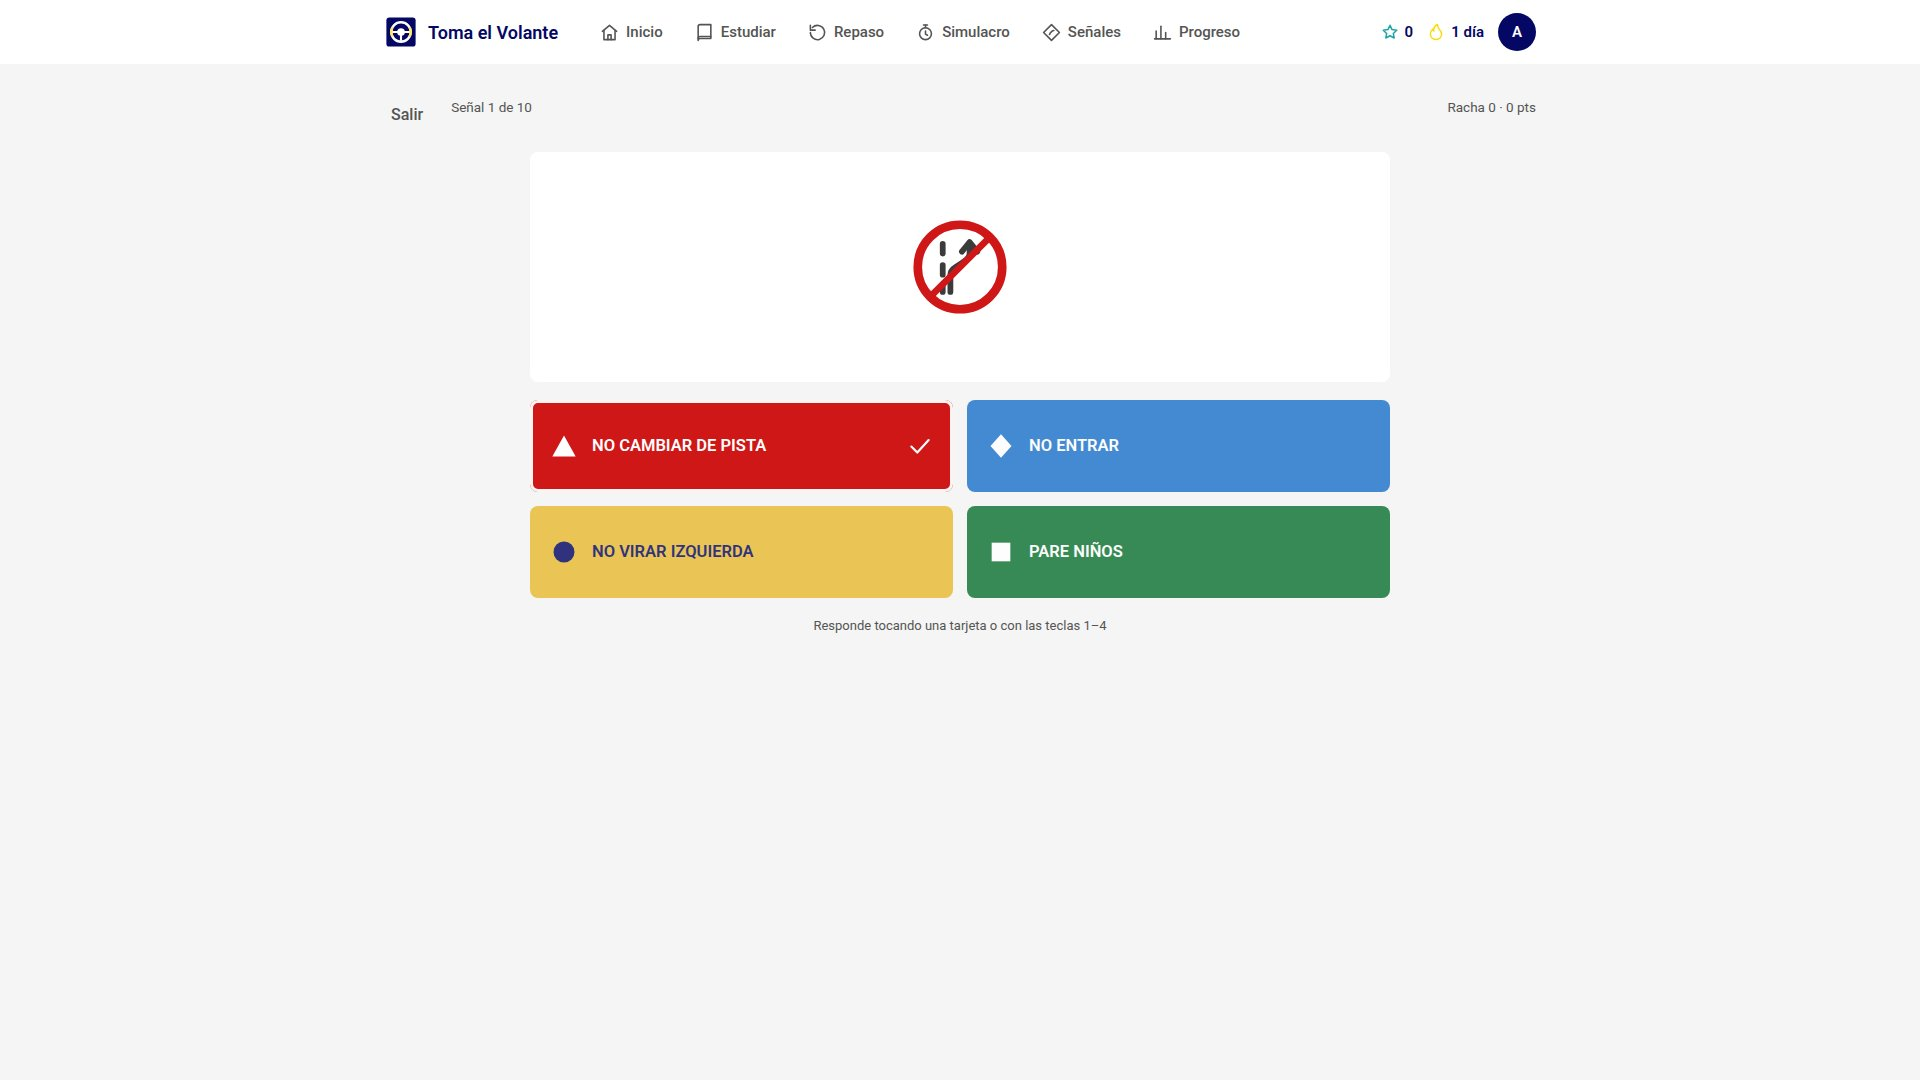
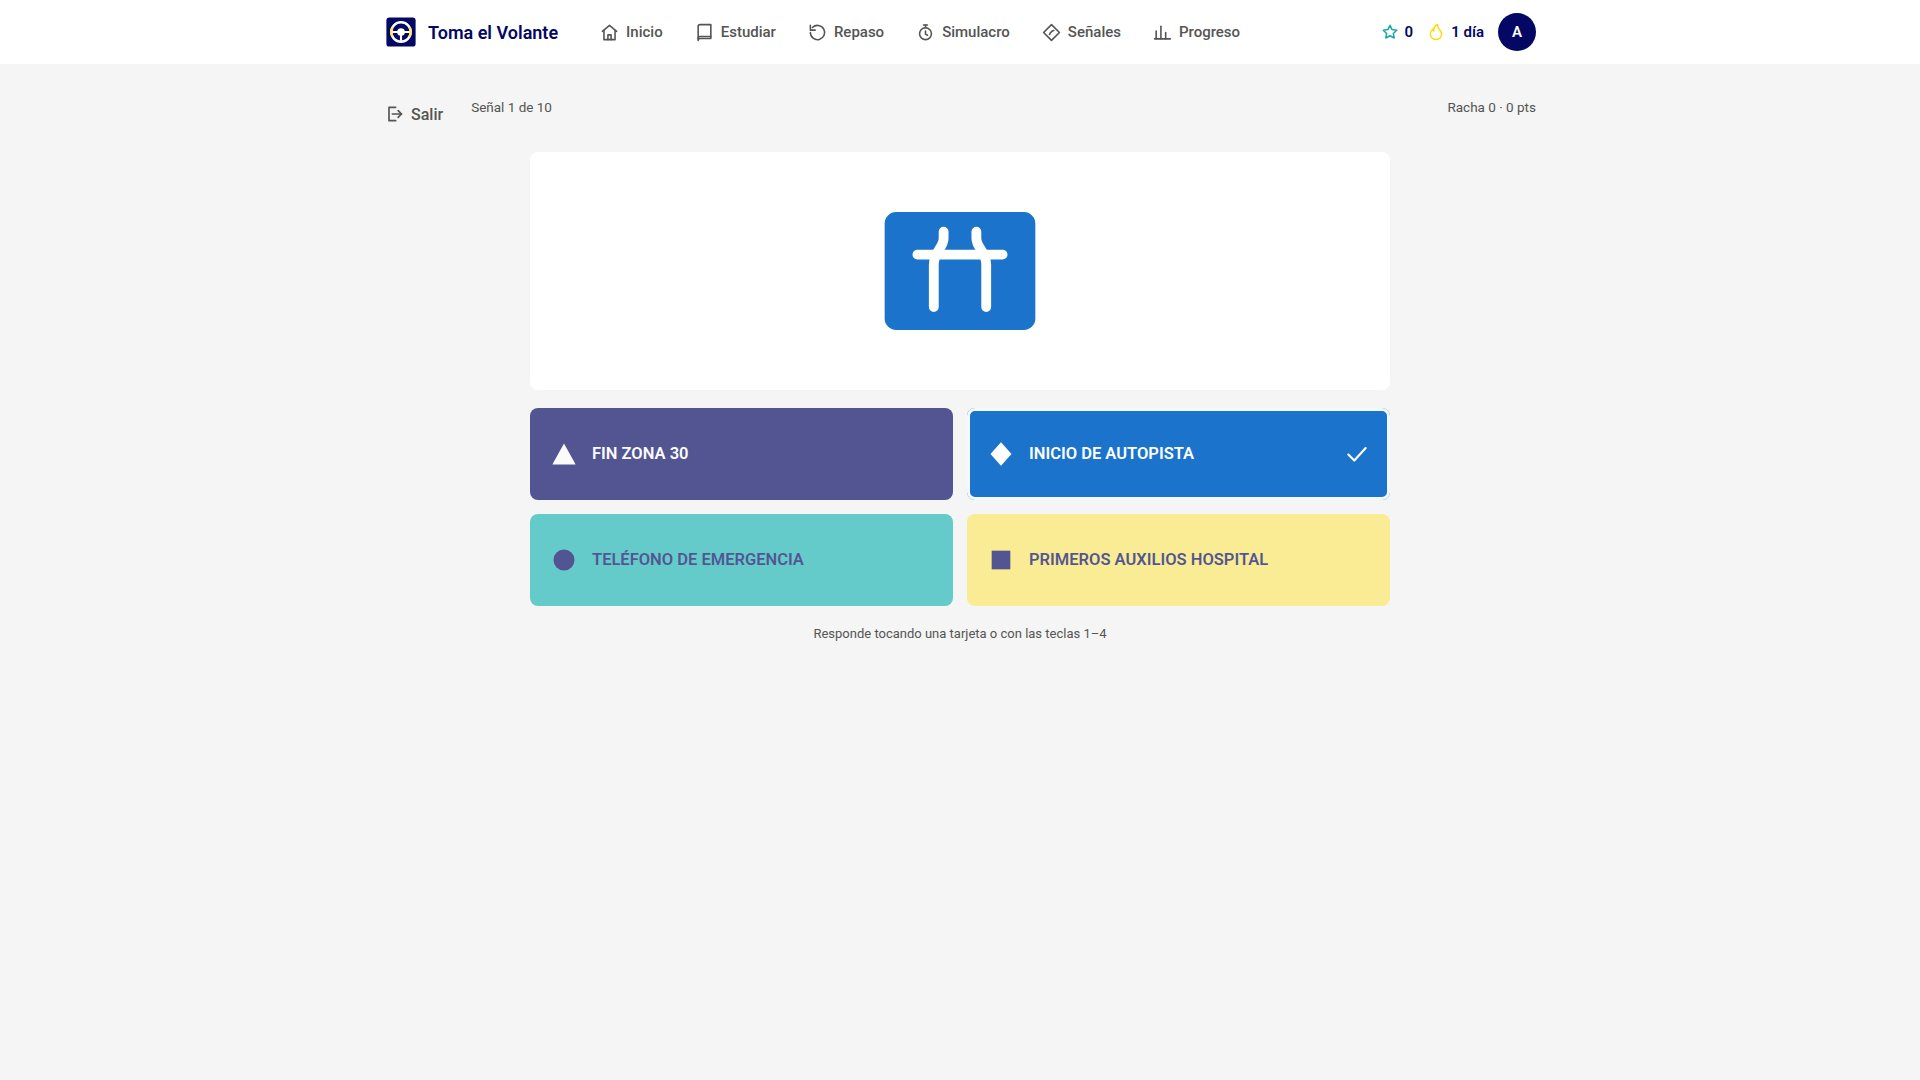
v1.2.1: íconos con tamaño base e intrínseco, señales sin recortes y trivia en paleta Gamonal
- .ico gana regla base de 20px y width/height intrínsecos en el SVG: las
  filas de los intros (simulacro, trivia) mostraban íconos gigantes porque
  solo existían tamaños contextuales (defecto desde la construcción
  original, RB-012).
- señalSVG pasa a viewBox -8..116: los rombos preventivos rotados ya no
  pierden las puntas; el tamaño lo controla el CSS (190px en la trivia,
  96px en la galería), antes el inline de 96px pisaba al CSS.
- Tarjetas de la trivia en paleta Gamonal (RB-011): navy y azul con
  contenido blanco, turquesa y amarillo con contenido navy; se retiran los
  colores Kahoot de la referencia (rojo/verde confundían con
  incorrecto/correcto). Formas se mantienen.
- Capturas regeneradas. Verificado E2E: 35/35 PASS, 0 errores.

Claude-Session: https://claude.ai/code/session_01U6G8JmwTDjASBPSyNYXhnz

Changed region(s): [[0.25, 0.3667, 0.75, 0.6111], [0.4375, 0.1833, 0.5625, 0.3056], [0.1875, 0.0917, 0.2812, 0.1222]]

diff --git a/app_toma_el_volante.js b/app_toma_el_volante.js
@@ -59,7 +59,10 @@ var ICONOS = {
   marcar:'<path d="M6 3h12v18l-6-4.5L6 21z"/>',
   estrella:'<path d="m12 3 2.7 5.8 6.3.8-4.6 4.3 1.2 6.1L12 17l-5.6 3 1.2-6.1L3 9.6l6.3-.8z"/>'
 };
-function ico(n, cls){ return '<svg class="ico'+(cls? " "+cls:"")+'" viewBox="0 0 24 24" fill="none" stroke="currentColor" stroke-width="2" stroke-linecap="round" stroke-linejoin="round" aria-hidden="true">'+(ICONOS[n]||"")+'</svg>'; }
+/* width/height intrínsecos: si un contexto no define tamaño (o el CSS no cargó),
+   el ícono jamás vuelve a renderizar gigante (corrección del usuario: filas del
+   intro de simulacro/trivia con íconos de 400px). El CSS contextual los pisa. */
+function ico(n, cls){ return '<svg class="ico'+(cls? " "+cls:"")+'" width="20" height="20" viewBox="0 0 24 24" fill="none" stroke="currentColor" stroke-width="2" stroke-linecap="round" stroke-linejoin="round" aria-hidden="true">'+(ICONOS[n]||"")+'</svg>'; }
 
 /* ---------- sonido (WebAudio, sutil, configurable) ---------- */
 var audioCtx = null;
@@ -1028,7 +1031,10 @@ function senalSVG(s, px){
   } else {
     dib = '<rect x="4" y="14" width="92" height="72" rx="7" fill="#1C73CB"/>'+pictoSVG(pict,"#FFFFFF");
   }
-  return '<svg viewBox="0 0 100 100" style="width:'+px+'px;height:'+px+'px" role="img" aria-label="'+esc(s.nombre)+'">'+dib+'</svg>';
+  /* viewBox con margen: el rombo preventivo rotado mide ~110 de diagonal y con
+     el lienzo 0-100 salía CORTADO (corrección del usuario). El tamaño lo pone
+     el contenedor por CSS (px queda como respaldo si no hay regla). */
+  return '<svg viewBox="-8 -8 116 116" style="max-width:100%;width:'+px+'px;height:auto" class="senal-svg" role="img" aria-label="'+esc(s.nombre)+'">'+dib+'</svg>';
 }
 function pictoSVG(p, color){
   var st = 'stroke="'+color+'" stroke-width="6" fill="none" stroke-linecap="round" stroke-linejoin="round"';
@@ -1128,11 +1134,15 @@ function vSenales(){
    azul #1C73CB, advertencia #E8BA30 (contenido navy por contraste AA) y éxito
    fuerte #0D7332. Sin premio por velocidad (RB-004): piensa lo que necesites. */
 var TR = null;
+/* Tarjetas en la PALETA GAMONAL (corrección del usuario: la referencia Kahoot
+   era estructural, no de color; y rojo/verde en alternativas confunden con
+   incorrecto/correcto). Navy y azul con contenido blanco; turquesa y amarillo
+   con contenido navy (contraste AA). Las formas ▲◆●■ se mantienen. */
 var TK_CARTAS = [
-  { color:"tk-rojo", forma:'<svg viewBox="0 0 24 24" aria-hidden="true"><path d="M12 3 22 21H2z" fill="currentColor"/></svg>' },
+  { color:"tk-navy", forma:'<svg viewBox="0 0 24 24" aria-hidden="true"><path d="M12 3 22 21H2z" fill="currentColor"/></svg>' },
   { color:"tk-azul", forma:'<svg viewBox="0 0 24 24" aria-hidden="true"><path d="M12 2l9 10-9 10L3 12z" fill="currentColor"/></svg>' },
-  { color:"tk-amarillo", forma:'<svg viewBox="0 0 24 24" aria-hidden="true"><circle cx="12" cy="12" r="9" fill="currentColor"/></svg>' },
-  { color:"tk-verde", forma:'<svg viewBox="0 0 24 24" aria-hidden="true"><rect x="4" y="4" width="16" height="16" fill="currentColor"/></svg>' }
+  { color:"tk-turq", forma:'<svg viewBox="0 0 24 24" aria-hidden="true"><circle cx="12" cy="12" r="9" fill="currentColor"/></svg>' },
+  { color:"tk-ama", forma:'<svg viewBox="0 0 24 24" aria-hidden="true"><rect x="4" y="4" width="16" height="16" fill="currentColor"/></svg>' }
 ];
 function armarRondaTrivia(n){
   var senales = DATA.senales||[];
@@ -1476,7 +1486,8 @@ window.RUTAB = {
   seleccionSimulacro: seleccionSimulacro,
   dominioGlobal: dominioGlobal,
   vencidasHoy: vencidasHoy,
-  triviaEstado: function(){ return TR; }
+  triviaEstado: function(){ return TR; },
+  senalSVG: senalSVG
 };
 
 })();

diff --git a/index.html b/index.html
@@ -54,6 +54,10 @@ a.lanz,a.lanz:hover,a.cap-card,a.cap-card:hover,.tb-logo:hover,.tabbar a:hover{t
 .btn-peligro{background:var(--magenta);color:#fff}
 .btn-peligro:hover{background:var(--magenta-o)}
 .btn[disabled]{background:var(--fondo);color:var(--gris-m);border:none;cursor:not-allowed}
+/* Tamaño BASE de todo ícono (corrección: filas sin regla contextual mostraban
+   SVGs gigantes en intro de simulacro/trivia). Los contextos pueden ajustarlo. */
+.ico{width:20px;height:20px;flex:none}
+.fila > .ico{color:var(--turq-o);margin-top:2px}
 .btn .ico{width:20px;height:20px;flex:none}
 
 /* ============ Topbar ============ */
@@ -190,7 +194,7 @@ a.lanz,a.lanz:hover,a.cap-card,a.cap-card:hover,.tb-logo:hover,.tabbar a:hover{t
 /* ============ Trivia de señales (tarjetas de color, maqueta del usuario) ============ */
 .tk-zona{max-width:860px;margin:0 auto;display:grid;gap:18px}
 .tk-senal{background:var(--blanco);border-radius:var(--r);padding:24px;display:flex;align-items:center;justify-content:center;min-height:230px}
-.tk-senal svg{width:190px;height:190px}
+.tk-senal svg{width:190px !important;height:190px !important}
 .tk-cartas{display:grid;grid-template-columns:1fr 1fr;gap:14px}
 .tk-carta{display:flex;align-items:center;gap:14px;border:0;border-radius:var(--r);padding:16px 20px;min-height:92px;cursor:pointer;font:inherit;text-align:left;color:#fff;transition:transform .12s ease-out,opacity .18s ease}
 .tk-carta:active{transform:scale(.98)}
@@ -199,17 +203,17 @@ a.lanz,a.lanz:hover,a.cap-card,a.cap-card:hover,.tb-logo:hover,.tabbar a:hover{t
 .tk-nombre{font-size:16.5px;font-weight:600;line-height:1.3}
 .tk-res{margin-left:auto;display:flex}
 .tk-res .ico{width:26px;height:26px}
-.tk-rojo{background:#CF1717}
+.tk-navy{background:var(--navy)}
 .tk-azul{background:var(--azul)}
-.tk-amarillo{background:#E8BA30;color:var(--navy)}
-.tk-verde{background:#0D7332}
+.tk-turq{background:var(--turq);color:var(--navy)}
+.tk-ama{background:var(--amarillo);color:var(--navy)}
 .tk-carta.ok{box-shadow:inset 0 0 0 3px rgba(255,255,255,.95)}
-.tk-amarillo.ok{box-shadow:inset 0 0 0 3px var(--navy)}
+.tk-turq.ok,.tk-ama.ok{box-shadow:inset 0 0 0 3px var(--navy)}
 .tk-carta.mal{opacity:.55}
 .tk-carta.apagada{opacity:.3}
 @media (hover:hover) and (pointer:fine){ .tk-carta:not([disabled]):hover{transform:translateY(-2px)} }
 @media (prefers-reduced-motion:reduce){ .tk-carta{transition:opacity .18s ease} .tk-carta:active,.tk-carta:not([disabled]):hover{transform:none} }
-@media (max-width:600px){ .tk-senal{min-height:180px} .tk-senal svg{width:140px;height:140px} .tk-carta{min-height:78px;padding:12px 14px} .tk-nombre{font-size:15px} }
+@media (max-width:600px){ .tk-senal{min-height:180px} .tk-senal svg{width:140px !important;height:140px !important} .tk-carta{min-height:78px;padding:12px 14px} .tk-nombre{font-size:15px} }
 
 /* ============ Quiz ============ */
 .quiz-top{display:flex;align-items:center;gap:16px;margin-bottom:16px;flex-wrap:wrap}

diff --git a/DECISIONES-VISUALES.md b/DECISIONES-VISUALES.md
@@ -13,7 +13,9 @@ al independizarse el proyecto (ago-2026).
 | RB-004 | Quiz (pedagogía TDA) | — | Una pregunta por pantalla; timer de foco 20s OPCIONAL que al agotarse da pista + descarta 1 alternativa (nunca falla automática); feedback inmediato con explicación y cita colapsable; errores sin castigo (vuelven vía Leitner 1-2-4-7-15 días); Roboto embebida para uso offline | VIGENTE |
 | RB-005 | Nombre e identidad (rebrand ago-2026) | El usuario pidió mejorar el nombre; propuso "Preparando el volante", se le presentaron variantes y eligió **"Toma el Volante"** (descartado "Study in route" por spanglish) | Producto = **Toma el Volante**. Símbolo: VOLANTE blanco (aro + 3 rayos + cubo) sobre placa navy #040764, con empuñaduras amarillas #FCE865 en posición de manos **9:15**; fondos oscuros: placa blanca, volante navy, empuñaduras #FADB0E. Wordmark "Toma el Volante" Roboto 600 en trazados vectoriales + bajada "Entrenador del examen Clase B". Claves internas (`rutab:v1`, `window.RUTAB*`) se conservan para no perder progreso | VIGENTE |
 | RB-006 | Login · panel visual (datos del examen) | "Te lo he dicho mil veces y en las reglas de gamonal está: no puedes poner azul sobre azul" (las tarjetas de stats iban navy-d sobre el panel navy) | Sobre superficies navy, toda caja/card va en **fondo sólido claramente distinto: BLANCO** (cifra navy 600, etiqueta gris medio #545454). Prohibido navy-d o translúcidos como fondo de caja sobre navy (el navy-d de HOVER de botones navy sobre fondo claro sí sigue: es estado, no caja). Assert permanente en el arnés E2E | VIGENTE |
-| RB-007 | Trivia de señales (v1.2) | El usuario pidió el "quiz de tarjetas" estilo Kahoot con su maqueta (4 tarjetas de color con formas); el quiz de texto existente no era lo esperado | Vista #/trivia: señal GRANDE en tarjeta blanca + 4 tarjetas de color con forma blanca (▲◆●■, apoyo daltonismo) tomadas de la paleta oficial: rojo error #CF1717, azul #1C73CB, amarillo advertencia #E8BA30 (contenido NAVY por contraste AA) y verde éxito fuerte #0D7332. Sin premio por velocidad (RB-004); puntos+racha sobrios; feedback 150-200ms solo transform/opacity con prefers-reduced-motion respetado. El botón principal de Señales lanza la trivia (el quiz de texto del anexo sigue en Estudiar) | VIGENTE |
+| RB-007 | Trivia de señales (v1.2) | El usuario pidió el "quiz de tarjetas" estilo Kahoot con su maqueta (4 tarjetas de color con formas); el quiz de texto existente no era lo esperado | Vista #/trivia: señal GRANDE en tarjeta blanca + 4 tarjetas de color con forma blanca (▲◆●■, apoyo daltonismo) tomadas de la paleta oficial: rojo error #CF1717, azul #1C73CB, amarillo advertencia #E8BA30 (contenido NAVY por contraste AA) y verde éxito fuerte #0D7332. Sin premio por velocidad (RB-004); puntos+racha sobrios; feedback 150-200ms solo transform/opacity con prefers-reduced-motion respetado. El botón principal de Señales lanza la trivia (el quiz de texto del anexo sigue en Estudiar) | COLORES REEMPLAZADOS por RB-011 (estructura y formas siguen vigentes) |
 | RB-008 | Fichas de estudio (v1.2) | "El módulo de estudio con ese fondo azul y lo destacado en amarillo es agotador; llegas a 10 y no quieres leer más" + "no hay estado de avance" | Ficha = tarjeta BLANCA editorial (texto gris tinta, titular navy, dato clave en banda amarillo claro #FDEF97 con texto navy, página en gris). Avance REAL de lectura: fichas leídas persistentes (P.fichasLeidas), contador y barra "Fichas leídas M/N" en el capítulo, puntitos leídos en turquesa, conteo de fichas en la parrilla y chip En curso también por lectura | VIGENTE |
 | RB-009 | Plan de estudio (v1.2) | "Poder hacer un plan con recordatorio (ej: dos exámenes de aquí a mañana) y que me llegue un correo" | Vista #/plan: fecha de examen + hora + días → plan diario EN VIVO (capítulos pendientes primero; los últimos 2 días de estudio = simulacros completos). El Inicio obedece al plan. Recordatorios = .ics con VALARM (Google/Outlook/Apple avisan en teléfono/correo según su configuración). El correo directo a hora exacta exige un servidor despierto (la app es 100% estática a propósito): queda propuesto como fase 2 (Worker + Resend), NUNCA simulado | VIGENTE |
 | RB-010 | Acceso al sitio (v1.2) | "Hacer un login que haga la aplicación segura, no quiero que se metan extraños" | Seguridad REAL en el borde: middleware de Pages Functions (sin sesión no se sirve ningún archivo), hash PBKDF2-SHA256 100k (jamás la contraseña en el repo público), cookie HMAC HttpOnly 30 días, página /acceso.html con la identidad del app (panel editorial navy con señales SVG — sin Envato por RB-002; cajas blancas por RB-006). Cambio de clave self-service: verificacion/generar_acceso.html (doble clic). La copia local file:// sigue libre a propósito | VIGENTE |
+| RB-011 | Trivia · tarjetas de respuesta | "Las alternativas NO pueden ir de esos colores, generan confusión. Te pasé una REFERENCIA y no puedes copiar. Tienes los lineamientos Gamonal" (los colores Kahoot rojo/verde además chocan con incorrecto/correcto) | Tarjetas en PALETA GAMONAL: navy #040764 y azul #1C73CB con contenido blanco; turquesa #20B6B6 y amarillo #FCE865 con contenido navy (AA). Formas ▲◆●■ se mantienen (apoyo daltonismo). El feedback de correcta = anillo interior + check (blanco en oscuras, navy en claras), sin rojo/verde en alternativas. Regla general: las referencias aportan ESTRUCTURA; el color siempre sale de la paleta oficial | VIGENTE |
+| RB-012 | Íconos e SVGs (todo el app) | "Las interiores no pueden tener estos diseños, está horrendo" (íconos de 400px en intros de simulacro/trivia) + "las señales se ven muy mal y cortadas" | (a) Regla BASE `.ico{20px}` + width/height intrínsecos en el SVG: ningún ícono vuelve a renderizar gigante aunque falte regla contextual. (b) señalSVG con viewBox −8..116: los rombos preventivos ya no pierden las puntas; tamaño por CSS (190px en trivia, 96 en galería). Defecto presente desde la construcción original: las capturas se generaban pero nadie las revisaba una a una — revisarlas TODAS antes de entregar | VIGENTE |

diff --git a/CLAUDE.md b/CLAUDE.md
@@ -86,6 +86,14 @@ no editar a mano). Progreso en localStorage por perfil.
   Home obedece al plan (`tareaDeHoy`). Recordatorios `.ics` con VALARM (`icsDelPlan`). Correo
   directo = fase 2 (Worker+Resend), no simulado.
 
+## Correcciones v1.2.1 (11-ago, no rehacer)
+- **RB-011**: tarjetas de la trivia en paleta GAMONAL (navy/azul blanco · turquesa/amarillo navy),
+  nunca los colores Kahoot de la referencia (rojo/verde confunden con incorrecto/correcto).
+- **RB-012**: `.ico` con regla base 20px + width/height intrínsecos; señalSVG viewBox −8..116
+  (rombos sin cortar) y tamaño por CSS. Lección: REVISAR toda captura generada antes de entregar.
+- Pendiente MAYOR en curso: ampliar el catálogo de señales (usuario: el anexo oficial trae ~146;
+  hay 56). Verificar el número real contra el libro y producir las faltantes en SVG propio.
+
 ## Estado
 v1.2 (11-ago-2026): seguridad de sitio + trivia + fichas claras/avance + plan con .ics,
 verificado **35/35 PASS**. v1.1: rebrand + RB-006. Pendientes: elección del usuario entre las
